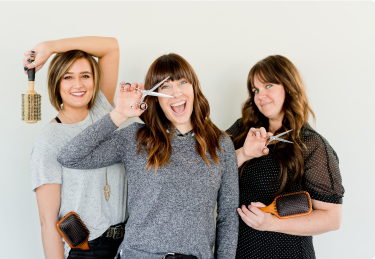
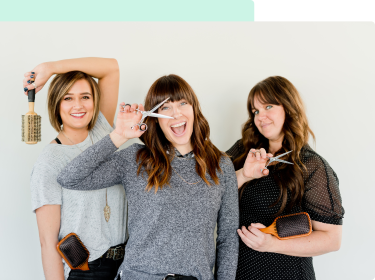
Beauty Salon...

diff --git a/index.html b/index.html
@@ -10,13 +10,18 @@
 </head>
 <body>
     <header class="cabecalho">
+
+
         <div class="image">
             <img src="images/Logo.png" alt="Logo">
         </div>
+
+
         <nav class="navegacao">
             <div class="icon-menu">
                 <i class='bx bx-menu' id="icone"></i>
             </div>
+
             <div class="list-menu">
                 <ul class="sub-list">
                     <li class="menu-links"><a href="#" class="links">Início</a></li>
@@ -26,8 +31,94 @@
                     <li class="menu-links"><a href="#" class="links">Contato</a></li>
                 </ul>
             </div>
+
         </nav>
+
+
     </header>
+
+
+    <main class="content">
+
+
+        <div class="divider">
+            <img src="images/Divider.png" alt="Divider">
+        </div>
+
+        <div class="imgBeauty">
+            <img src="images/img-beauty.png" alt="Cabeleleira Trabalhando">
+        </div>
+
+        <article class="titulo">
+            <h1>Saúde natural para os seus cabelos</h1>
+            <p>Um salão exclusivo em Fortaleza, especializado em tratamentos naturais.</p>
+            <div class="button">
+                <button class="schedule">Agendar um horário</button>
+            </div>
+        </article>
+
+        <div class="divider">
+            <img src="images/Divider.png" alt="Divider">
+        </div>
+
+        <div class="imgBeauty">
+            <img src="images/img-about.png" alt="Cabeleleira Trabalhando">
+        </div>
+
+        <article class="about">
+            <h1 class="sub-about">Sobre nós</h1>
+            <div class="content-about">
+                <p class="paragrafo-about">Lorem ipsum dolor sit amet, consectetur adipiscing elit. Suspendisse sagittis arcu quis nisi luctus, id accumsan felis tristique. Proin quis bibendum diam. Sed consequat nisl laoreet eros ultricies pellentesque. Nullam in est porta, pellentesque massa vitae, vehicula risus. </p>
+                <p class="paragrafo-about">In placerat, felis vitae sodales dictum, lacus quam pretium mi, ut pretium urna turpis eu dui. Vestibulum id ullamcorper nibh. Donec luctus, nunc finibus elementum suscipit, tortor augue vulputate sapien, vitae feugiat enim augue sed. </p>
+                <p class="paragrafo-about">Quisque id aliquam elit. Suspendisse congue pharetra maximus. Duis rutrum velit a leo euismod dictum. Sed sodales est efficitur arcu tincidunt tincidunt. Curabitur fringilla, risus at feugiat feugiat, nisl nulla tincidunt tellus, elementum elementum lorem nisl eleifend dolor. Nullam eget dui at sem ullamcorper luctus.</p>
+            </div>
+        </article>
+
+        <div class="divider">
+            <img src="images/Divider-reverse.png" alt="Divider"> 
+        </div>
+
+        <div class="services">
+            <h1>Serviços</h1>
+            <p>Com mais de 10 anos no mercado o <span>Beauty Salon</span> já conquistou clientes de inúmeros países com seus tratamentos exclusivos e totalmente naturais</p>
+        </div>
+
+        <div class="service-1">
+            <img src="images/icon-terapia-capilar.png" alt="Ícone terapia capilar">
+            <h2>Terapia Capilar</h2>
+            <p>Terapia completa para couro cabeludo e fios, protegendo todos os tipos de cabelos, inclusive os longos e finos.</p>
+        </div>
+
+        <div class="service-2">
+            <img src="images/icon-corte.png" alt="Ícone tesoura">
+            <h2>Cortes</h2>
+            <p>A nossa equipe é repleta de profissionais renomados, famosos por lançarem tendências com cortes diferenciados e clássicos.</p>
+        </div>
+
+        <div class="service-3">
+            <img src="images/treatments.png" alt="Ícone terapia capilar">
+            <h2>Tratamentos</h2>
+            <p>A nossa equipe é repleta de profissionais renomados, famosos por lançarem tendências com cortes diferenciados e clássicos.</p>
+        </div>
+
+        <div class="divider">
+            <img src="images/Divider.png" alt="Divider"> 
+        </div>
+
+        <article class="depoimentos">
+            <h1>Depoimentos de quem já passou por aqui</h1>
+            <div class="sub-depoimentos">
+                <p><i class='bx bxs-quote-alt-left' id="aspas"></i>Eu sou cliente do Beautysalon há 5 anos e não troco por nada! Certamente meu cabelo mudou muito depois que comecei a tratar somente com produtos naturais e veganos. São profissionais incríveis e qualificados.<i class='bx bxs-quote-alt-right' id="aspas"></i></p>
+                <div class="client">
+                    <img src="images/client.png" alt="Cliente" >
+                    <p>Wanessa Souza</p>
+                </div>
+            </div>
+        </article>
+
+    </main>
+
+
     <script src="javascript.js"></script>
 </body>
 </html>

diff --git a/css/style.css b/css/style.css
@@ -1,10 +1,12 @@
 @charset "UTF-8";
 @import url('https://fonts.googleapis.com/css2?family=Poppins:wght@700&display=swap');
+@import url('https://fonts.googleapis.com/css2?family=DM+Sans&display=swap');
 :root {
     --cor01: #0F241D;
     --cor02: #69B99D;
     --cor03: #CCF4E6;
     --cor04: #F9F9F9;
+    --cor05: #767676;
 }
 
 * {
@@ -43,6 +45,8 @@ html, body {
 
 .list-menu {
     display: none;
+    border-radius: 10px;
+    border: 1px solid var(--cor01);
 }
 
 .sub-list {
@@ -81,5 +85,181 @@ html, body {
     list-style-type: none;
 }
 
+.divider img {
+    width: 100%;
+}
 
-/* colocar estilos hover à minha lista de links do menu */
+.imgBeauty img {
+    width: 100%;
+    margin-top: 30px;
+}
+
+.titulo {
+    display: flex;
+    flex-direction: column;
+    justify-content: center;
+    align-items: center;
+    gap: 1.2rem;
+}
+
+.titulo h1 {
+    font-family: 'Poppins';
+    text-align: center;
+    font-weight: 700;
+    font-size: 30px;
+}
+
+.titulo p {
+    font-family: 'DM Sans';
+    font-weight: 400;
+    font-size: 16px;
+    color: var(--cor05);
+    text-align: center;
+    padding: 0 10;
+}
+
+.schedule {
+    font-family: 'DM Sans';
+    font-size: 16px;
+    color: var(--cor04);
+    padding: 15px;
+    background-color: var(--cor02);
+    border: none;
+    border-radius: 4px;
+    margin-bottom: 30px;
+    cursor: pointer;
+    transition: 0.5s all ease-in-out;
+}
+
+.schedule:hover {
+    transform: scale(1.1);
+}
+
+.about {
+    padding: 20px 10px;
+}
+
+.paragrafo-about {
+    line-height: 1.4;
+}
+
+.sub-about {
+    font-family: 'Poppins';
+    font-size: 30px;
+    font-weight: 700;
+}
+
+div.content-about {
+    display: flex;
+    flex-direction: column;
+    
+    gap: 1rem;
+    align-items: center;
+    font-family: 'DM Sans';
+    color: var(--cor05);
+    font-size: 16px;
+    font-weight: 400;
+}
+
+.services {
+    padding: 20px 10px;
+}
+
+.services h1 {
+    font-family: 'Poppins';
+    font-weight: 700;
+    font-size: 30px;
+}
+
+.services p {
+    font-family: 'DM Sans';
+    font-size: 16px;
+    font-weight: 400;
+    color: var(--cor01);
+    line-height: 1.4;
+}
+
+.services p span {
+    color: var(--cor02);
+    font-weight: 700;
+}
+
+.service-1, .service-2, .service-3 {
+    display: flex;
+    flex-direction: column;
+    justify-content: center;
+    align-items: center;
+    background-color: var(--cor04);
+
+    box-shadow: 0px 0px 12px rgba(0, 0, 0, 0.08);
+    margin: 20px 30px;
+    padding: 30px 20px;
+    border-bottom: 3px solid var(--cor02);
+}
+
+.service-1, .service2, .service-3 h2 {
+    font-family: 'Poppins';
+    color: var(--cor01);
+    font-size: 24px;
+    font-weight: 700;
+    padding: 20px 0px;
+}
+
+.service-1, .service-2, .service-3 p {
+    font-family: 'DM Sans';
+    color: var(--cor05);
+    font-size: 16px;
+    font-weight: 400;
+    text-align: center;
+}
+
+.depoimentos {
+    display: flex;
+    flex-direction: column;
+    justify-content: center;
+    align-items: center;
+    background-color: var(--cor04);
+
+    box-shadow: 0px 0px 12px rgba(0, 0, 0, 0.08);
+    margin: 20px 30px;
+    padding: 30px 20px;
+    gap: 1.2rem;
+}
+
+.sub-depoimentos {
+    display: flex;
+    flex-direction: column;
+    justify-content: center;
+    align-items: center;
+    background-color: var(--cor04);
+    padding: 0px 10px;
+
+    box-shadow: 0px 0px 12px rgba(0, 0, 0, 0.08);
+}
+
+.depoimentos h1 {
+    font-family: 'Poppins';
+    font-weight: 700;
+    font-size: 30px;
+}
+
+.depoimentos p {
+    font-family: 'DM Sans';
+    color: var(--cor01);
+    font-size: 16px;
+    font-weight: 400;
+    line-height: 1.6rem;
+}
+
+#aspas {
+    color: var(--cor02);
+
+}
+
+.client {
+    display: flex;
+    justify-content: center;
+    align-items: center;
+    gap: 0.4rem;
+    padding: 20px 0px;
+}
